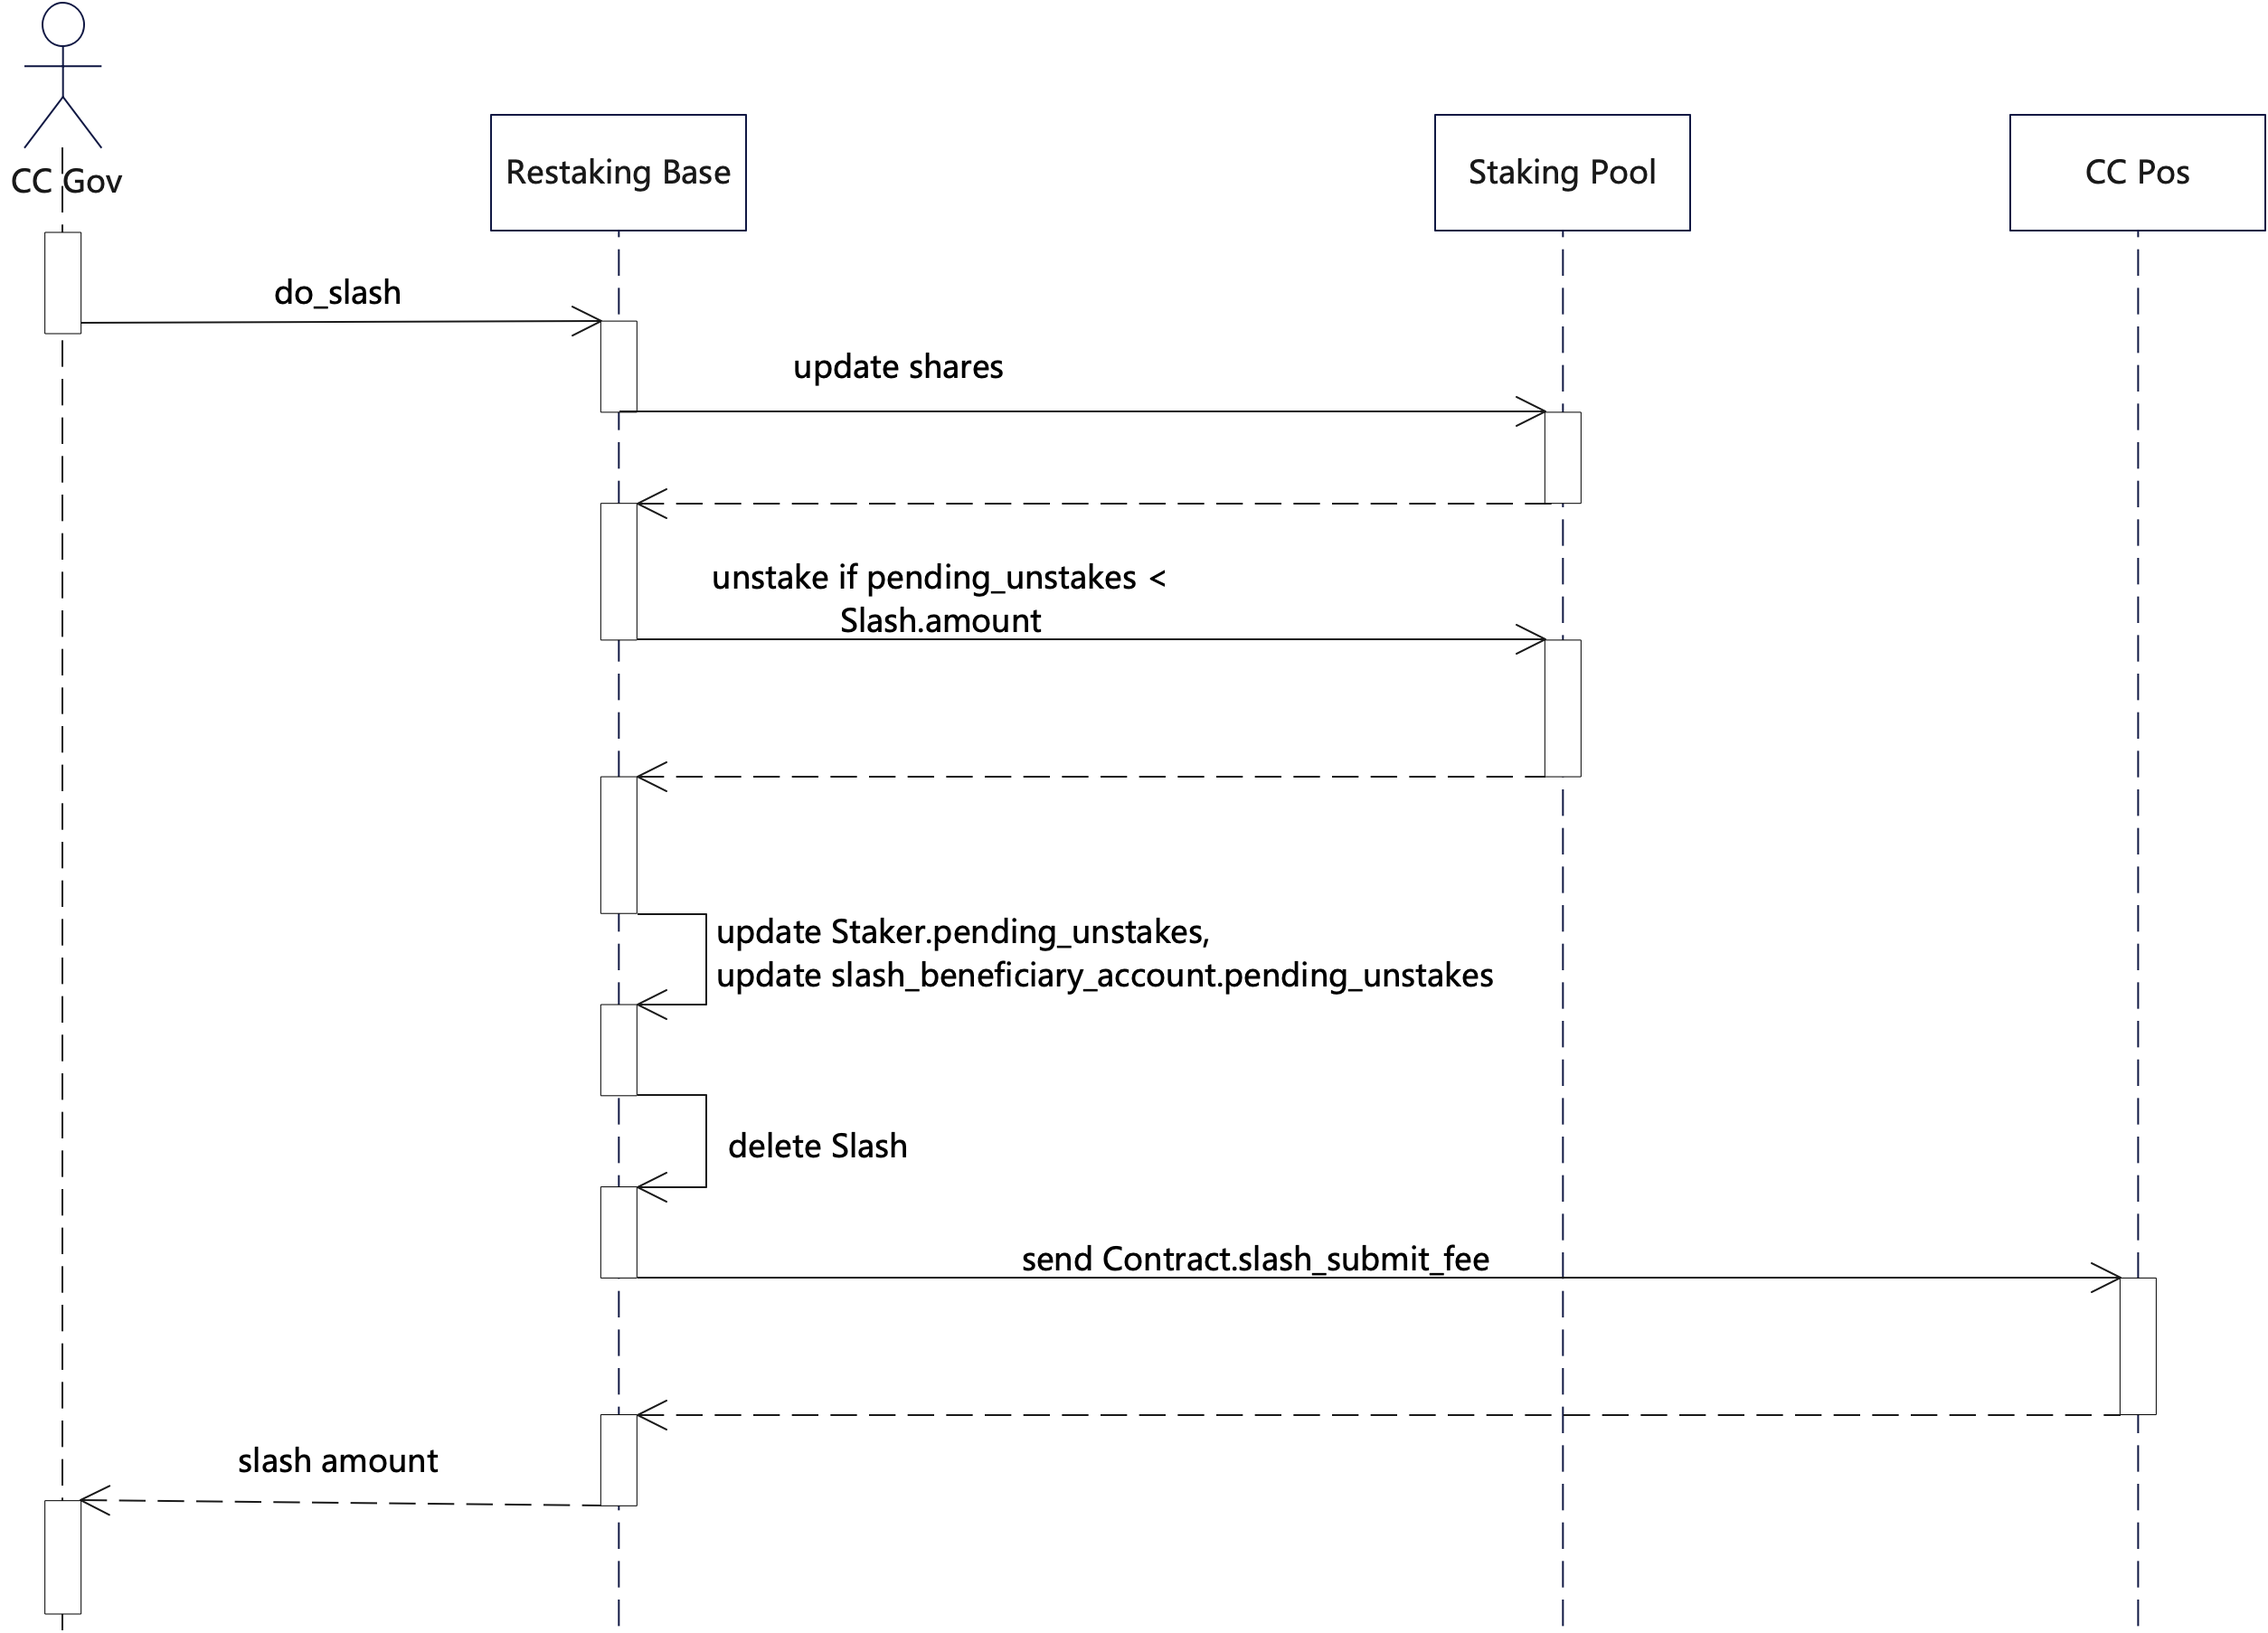
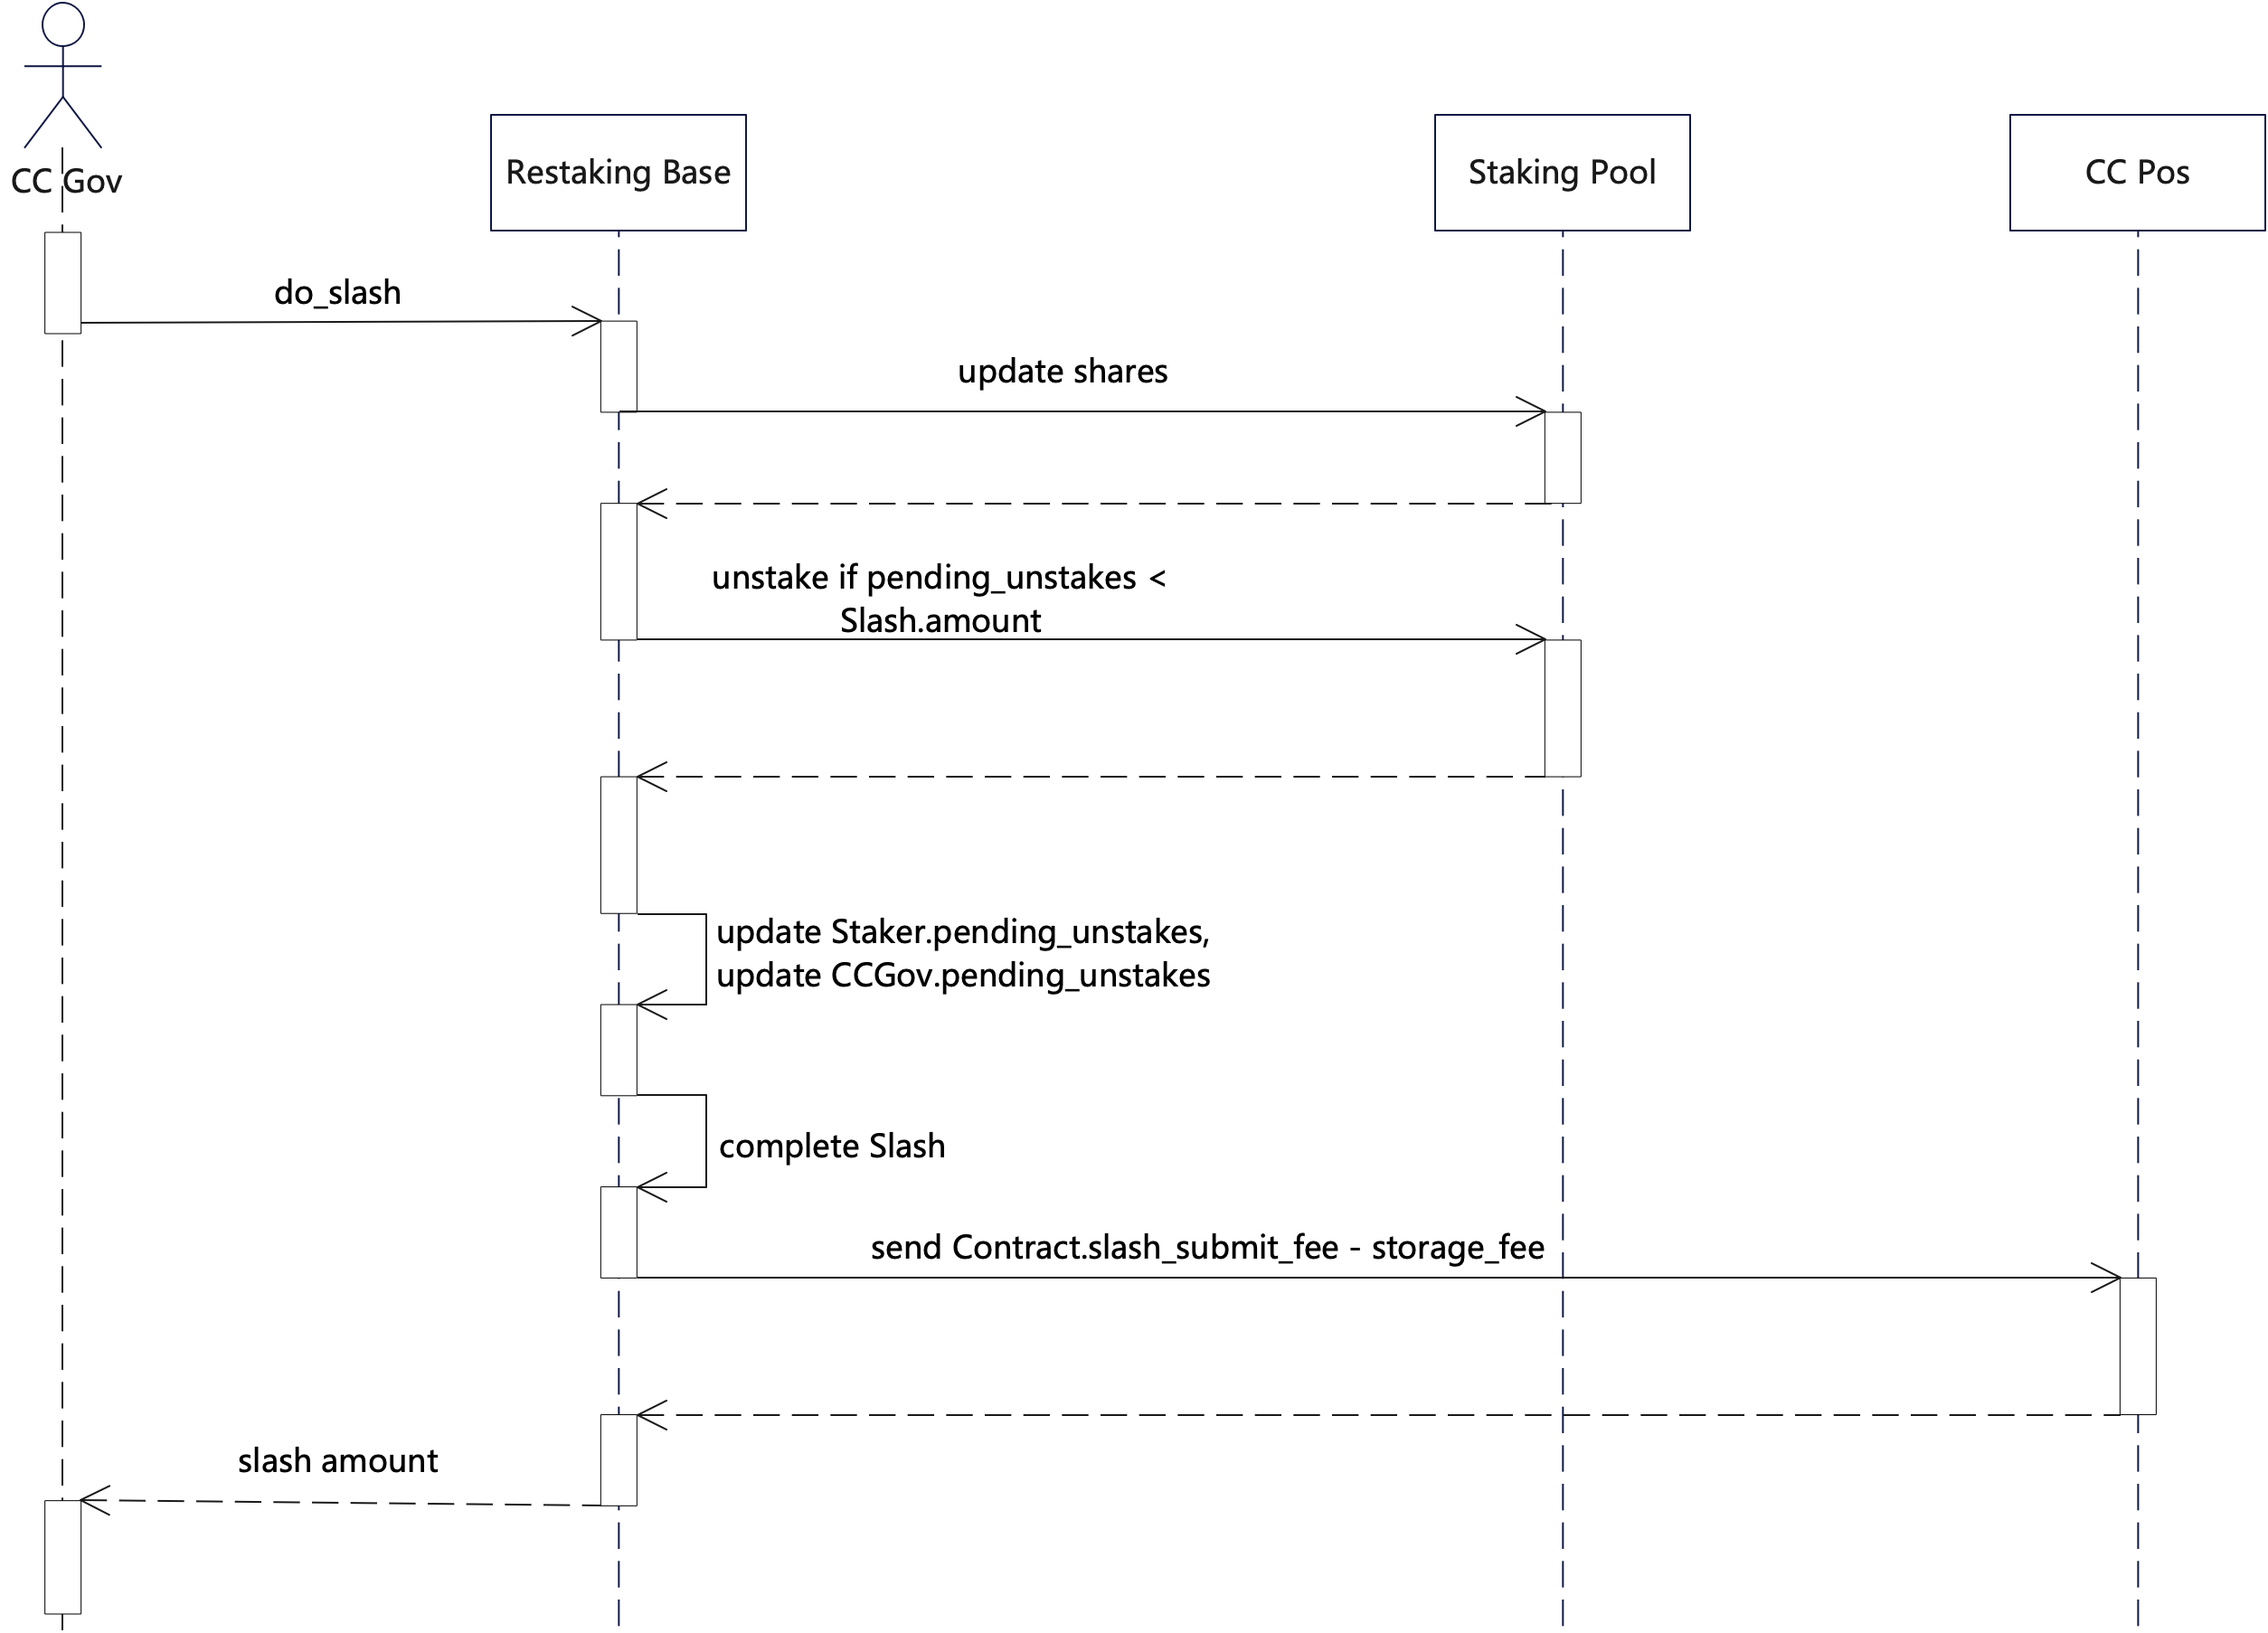
blacklist named to blackout

diff --git a/README.md b/README.md
@@ -6,19 +6,23 @@ Contents:
 
 - [Restaking Base](#restaking-base)
     - [Terminology](#terminology)
+    - [Use Case](#use-case)
     - [Function specification](#function-specification)
         - [Stake](#stake)
         - [Increase Stake](#increase-stake)
         - [Decrease Stake](#decrease-stake)
         - [Register](#register)
+        - [Unregister](#unregister)
+        - [Update CC Info](#update-cc-info)
         - [Bond](#bond)
+        - [ChangeID](#change-id)
         - [Unbond](#unbond)
-        - [Kick](#kick)
+        - [Blackout](#blackout)
         - [Slash](#slash)
+        - [Query Pos Info](#query-pos-info)
         - [Unstake](#unstake)
         - [Withdraw](#withdraw)
-        - [Query Restaking](#query-restaking)
-    - [DataStruct and Interfaces](#dataStruct-and-interfaces)
+    - [DataStruct and Interfaces](#datastruct-and-interfaces)
 
 ## Terminology
 
@@ -43,6 +47,9 @@ Contents:
 - `energy`: `energy` is a concept proposed to suppress the risk of over-leveraging. Each `Staker` has 100 energy points, and each `Consumer Chain` has `energy_cost`. `Staker` will consume `energy` when they `Bond` to `CC Pos`, and recover `energy` when they `Unbond` from `CC Pos`.
 - `Bond`: After the `Staker` and `Consumer Chain` bond, the `Staker's` near provides security for the `Consumer Chain`, and the `Consumer Chain` provides `Rewards` to the `Staker`. At the same time, the `Consumer Chain` will have the right to initiate a `slash` against the `Staker`.
 - `Unbond`: The `Staker` and `Consumer Chain` break the `Bond`. This process requires an `unbonding period` to complete, during which the `Consumer Chain` can apply to `Slash` the `Staker`.
+
+## Use case
+![](images/use-case.jpg)
 
 ## Function specification
 
@@ -71,16 +78,16 @@ This `consumer chain` can submit registration information to the staking-base co
 
 ![](images/register.png)
 
+### Unregister
+The `CC Gov` can unregister `CC Pos` and the `restaking-base` will transfer register fee to `treasury` account.
+
+![](images/unregister.png)
+
 ### Update CC Info
 
 The `CC Gov` can update `CC Pos` information and this interface must be called by the `governance` account.
 
 ![](images/update-info.png)
-
-### Unregister
-The `CC Gov` can unregister `CC Pos` and the `restaking-base` will transfer register fee to `treasury` account.
-
-![](images/unregister.png)
 
 ### Bond
 
@@ -90,7 +97,7 @@ And Consumer Chain PoS accepts or rejects a bond request according to its rules,
 
 ![](images/bond.png)
 
-### Change Identity
+### Change ID
 
 The `Staker` can change his identity after finish bonding. 
 
@@ -106,9 +113,9 @@ Once `unbond` is finished, the `staker` will recover energy.
 
 ![](images/unbond.png)
 
-### Blacklist
+### Blackout
 
-The CC Pos can blacklist Stakers, which will prevent them from bonding.
+The CC Pos can black out Stakers, which will prevent them from bonding.
 
 ![](images/blacklist.png)
 
@@ -128,7 +135,7 @@ Rules of executing slash:
 ![](images/submit_slash.png)
 ![](images/do_slash.png)
 
-### Query Restaking
+### Query Pos Info
 
 In order to update validator set, the `CC Pos` is motivated to query the Restaking Base contract periodically.
 
@@ -152,3 +159,4 @@ When a Staker performs the unstake or decrease stake operation, the contract wil
 
 ## DataStruct and Interfaces
 ![](images/datastructs_and_interfaces.png)
+![](images/cc-anchor.png)
